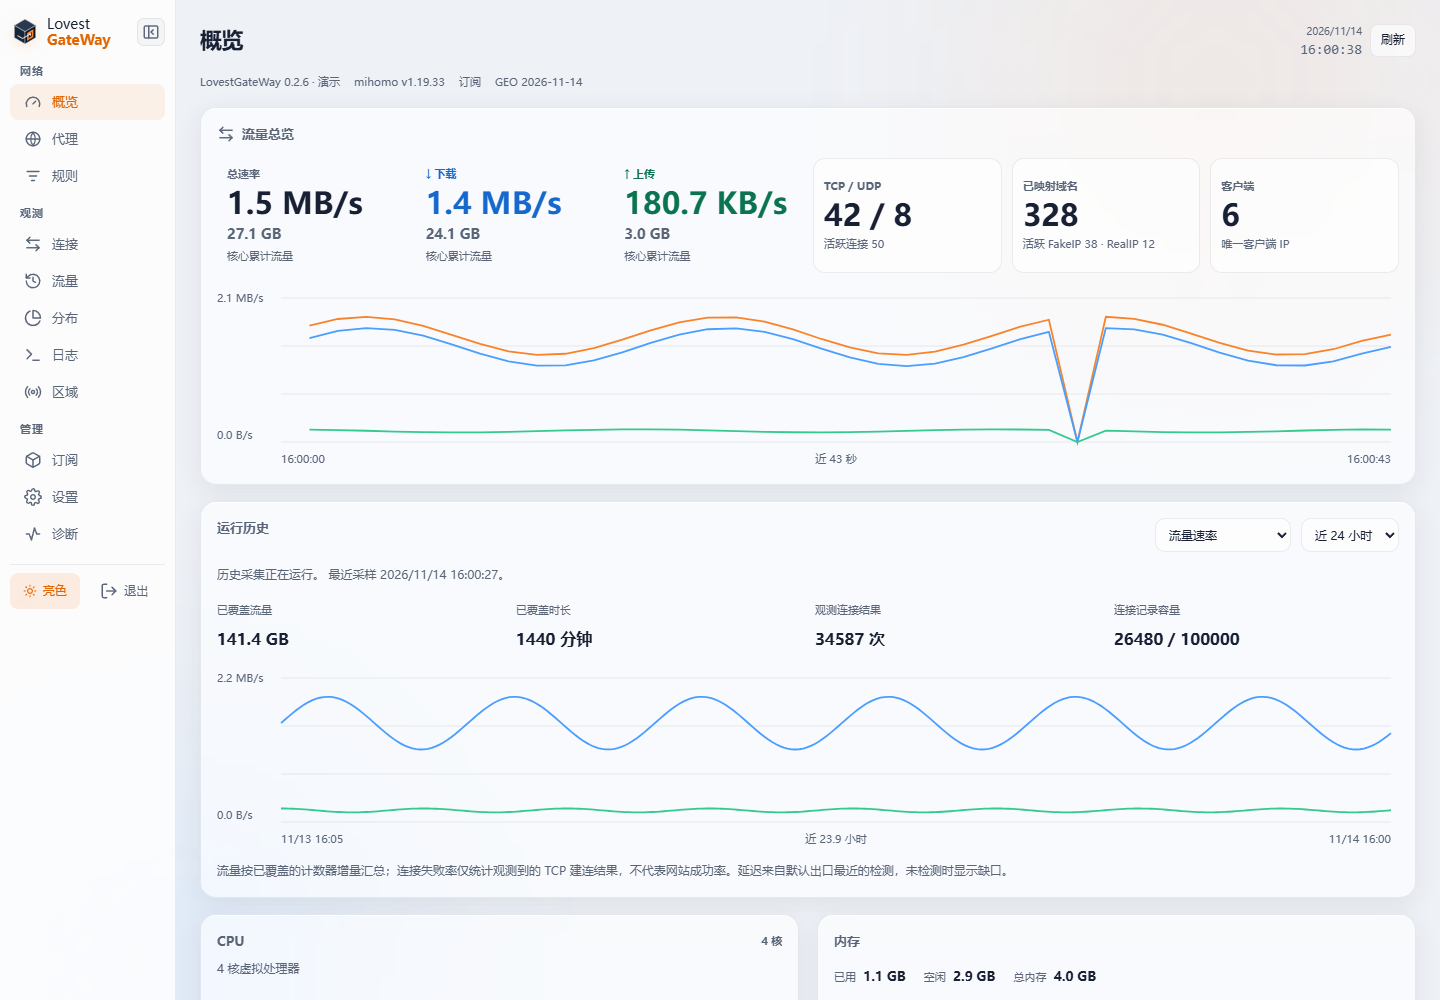
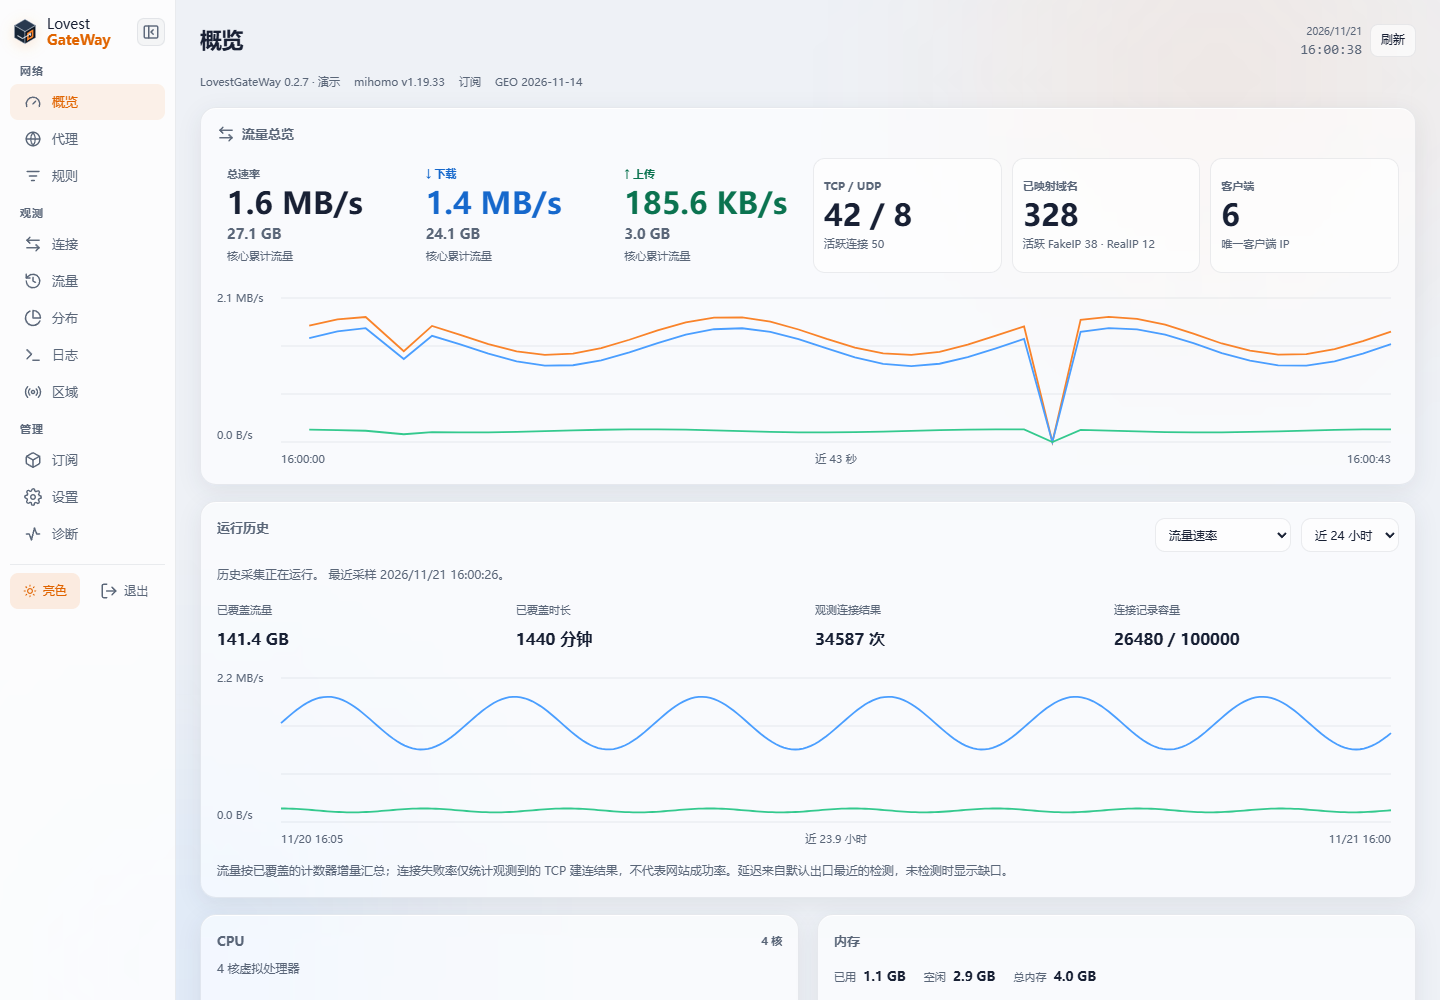
Prepare v0.2.7 and consolidate outdated project files

diff --git a/docs/optimization-roadmap.md b/docs/optimization-roadmap.md
@@ -1,6 +1,6 @@
 # 项目状态与验收边界
 
-更新于 2026-11-14，对应 v0.2.6 源码。本页描述当前主线；已公开版本及附件以 [Releases](https://github.com/Lovest20018/LovestGateWay/releases) 为准。服务部署和正式发布分别执行，发布不会自动升级服务器。
+更新于 2026-11-21，对应 v0.2.7 源码。正式安装包见 [GitHub Releases](https://github.com/Lovest20018/LovestGateWay/releases)。
 
 ## 本轮已完成
 
@@ -10,7 +10,9 @@
 | 历史采集 | 复用 SQLite 连接，合并同轮成功读取的来源事务，仅超限时扫描淘汰；保持每秒采样、保留期限和 10 万条上限 |
 | 运行历史 | 持久分页游标、独立分钟指标和 5 分钟页面汇总，展示 1 小时/24 小时流量、CPU、内存、观测建连结果和近期出口检测；计数器、身份和采样缺口保护 |
 | 局域网代理 | 独立用户名/密码输入、固定 1080 端口说明、用户名回显、保留旧密码与明确清除 |
-| 控制与订阅 | Debian 正常日志按 10 分钟汇总，故障/恢复即时记录；候选完整等价且进程未变时跳过冗余重启，组模式保留 |
+| 控制与订阅 | Debian 正常日志按 10 分钟汇总。定时和手动刷新按运行设置叠加策略和预解析 DNS，校验后比较生效配置，等价时保留进程，结果与原因写入日志 |
+| 连接统计清零 | Web 手动清零和月度清零保留活跃 TCP、UDP 连接。清零后重新聚合流量，实时图表和历史采样识别计数断点 |
+| 观测可用性 | 核心连续不可用满 20 秒时告警，恢复时记录中断时长。设置页显示 API 服务根地址与手工调用方式 |
 | 代理接口与页面 | 共享不可变 JSON、预计算 ETag、合并并发抓取、失败保留最近有效快照；页面复用节点卡片、标签和曲线，折叠组延迟处理 |
 | Mihomo 选型 | 按环境支持选择 amd64-v3/v2/v1；保守回退，允许手动选择较低等级；同版本换型与版本升级分别提示 |
 | 侧栏与内容区 | 紧凑分组、收起记忆、单按钮外观切换；11 个分栏统一标题、工具栏、反馈和表格操作，手机布局及复杂编辑回归通过 |
@@ -19,6 +21,7 @@
 
 ## 已有验证
 
+- v0.2.7 在隔离 Debian 环境验证了 `free` 和 `suburl` 的 TCP、UDP 长连接，覆盖手动清零、月度清零和清零后字节累计。浏览器回归覆盖 API 地址预览和设置回滚。正式包全量测试结果见对应的 Actions。
 - v0.2.6 发布前本地 Python 375 项、前端 36 项通过（Windows 的 4 项平台相关用例跳过），设置、历史概览与管理登录浏览器回归通过；Linux 全量 Python、Rust、浏览器和真实 PPsub CLI 合成故障切换由正式发布 CI 重新执行，实际结果以对应 Actions 为准。
 - 此前性能与兼容基线完成 Rust 1060 项通过、5 项原有用例忽略；这属于此前证据，不代替当前提交的 CI。
 - 布局交付从完整安装包运行 13 组浏览器验证，覆盖桌面、320/375px 手机、亮暗主题、两种订阅编辑模式，以及 60 组、1000 个节点候选。
@@ -38,6 +41,7 @@
 
 ## 尚待完成与独立后续
 
+- **运行告警跟进**。节点拨号拒绝、超时和整组测速失败按时段、出站、目标核对。GeoIP 下载持续失败时检查现存数据能否加载。
 - **真实客户端业务验收**：从独立客户端验证 DNS、透明 TCP/UDP、订阅更新后的业务访问与实际代理出口。缺少公网 IPv6 条件时明确保留待测；UDP/443 回显不证明 QUIC 协议通过。
 - **上游依赖评审**：台账仍暂缓上游 `Cargo.lock` 更新，需单独评估兼容和安全影响，见[上游跟进](upstream-maintenance.md)。
 - **更深层性能优化**：连接聚合锁、TCP/UDP 参数和整体转发吞吐先按真实负载剖析决定，没有依据时不改变网络参数。

diff --git a/docs/ui-optimization-plan.md b/docs/ui-optimization-plan.md
@@ -23,8 +23,26 @@
 | R1：物化配置比较 | 托管功能不变时允许静态规则热加载；动态来源、凭据、网络和不确定快照继续事务重启 |
 | R2：选择恢复窗口 | 已完成测量与处理判断；保留选择恢复和运行回读，明确提示新连接可能短暂失败，不宣称零中断 |
 
-## 布局与验证
+## 逐页布局
 
-逐页变化见[页面布局整理](ui-layout-review.md)。覆盖桌面、320/375px 手机、亮暗主题、焦点与草稿、排序筛选、导出、认证恢复、确认及未知结果核对。复杂编辑包含原生 PPsub 和完整配置两种模式、60 个节点组与 1000 个候选。
+各页统一主标题、工具栏、状态反馈和表格操作。手机端工具栏自然换行，宽表在内部滚动。保存与应用集中显示，次要操作按需展开，错误和待恢复事务保持可见。
+
+| 分栏 | 布局 |
+| --- | --- |
+| 概览 | 运行摘要单独成行，流量、CPU 与内存、网络接口分区。等待曲线时缩小空白 |
+| 代理 | 组头显示当前节点、数量和测速。组内筛选与测速设置按需展开 |
+| 规则 | 独立搜索，规则测试、GEO 与订阅数据管理可展开。列设置可隐藏统计详情并记忆选择 |
+| 连接 | 活动与已关闭分开查看。工具栏提供搜索、列设置和关闭操作，关闭全部需确认 |
+| 流量 | 累计与速率摘要统一呈现。工具栏提供视图、时间和搜索，清空操作需确认 |
+| 分布 | 节点统计和客户端、域名排行分区，支持流量、持续时间和连接数排序 |
+| 日志 | 集中显示来源与核心最低级别，各来源有独立搜索、暂停和条数设置 |
+| 区域 | 默认展开基础、AI、全球服务。筛选时展开匹配组，清除时恢复原样 |
+| 订阅 | 每类默认展开首行，新增或复制时自动展开，保存区显示修改状态 |
+| 设置 | 运行核对显示摘要，过期或失败时自动展开详情 |
+| 诊断 | 优先显示当前状态和故障，异常服务自动展开，集中展示备份、恢复预览和任务进度 |
+
+## 验证
+
+合成浏览器测试覆盖桌面、320/375px 手机、亮暗主题、焦点与草稿、排序筛选、导出、认证恢复、确认及未知结果核对。复杂编辑覆盖原生 PPsub 和完整配置两种模式、60 个节点组与 1000 个候选。
 
 认证恢复、完整设置与核心维护、网关升级及主要页面浏览器回归已接入 Debian CI，先通过浏览器作业再进入打包，验证范围见[测试说明](testing.md)。自动测试、隔离安装和真实客户端业务分别记录；真实客户端透明业务和公网 IPv6 仍按环境独立验收，整体项目状态见[项目状态](optimization-roadmap.md)。

diff --git a/README.md b/README.md
@@ -23,13 +23,13 @@
 
 桌面与手机使用同一套面板，支持侧栏收起、亮暗主题和大列表分批展示。日常使用无需开启对外观测 API。
 
-## v0.2.6
+## v0.2.7
 
-- 代理账号拆分为用户名和密码，保存后回显用户名，并显示固定端口及客户端连接说明。
-- 概览增加近 1 小时 / 24 小时运行历史；采样缺口和核心重启保留为缺口，避免产生虚假流量。
-- 减少控制循环重复日志和等价订阅引起的重启，增加真实 PPsub CLI 的合成故障切换验证。
+- 定时和手动订阅刷新按运行设置生成候选，生效配置等价时跳过重启，并记录应用决定。
+- 手动和月度流量清零保留活跃连接。聚合流量从清零后重新统计，实时图表与运行历史标出计数断点。
+- 观测采集区分短暂中断与持续故障，设置页明确显示 HNM 所需的 API 服务根地址。
 
-升级保留已有组模式，**不会自动开启故障转移或历史采集**。详细说明见 [v0.2.6 发布说明](docs/releases/0.2.6.md)。
+升级沿用已有的组模式及故障转移、历史采集开关。详细说明见 [v0.2.7 发布说明](docs/releases/0.2.7.md)。
 
 ## 界面预览
 

diff --git a/docs/releases/0.2.7.md b/docs/releases/0.2.7.md
@@ -1,0 +1,8 @@
+# LovestGateWay v0.2.7
+
+- 定时和手动订阅刷新按运行设置执行 DNS 预解析和本地策略叠加。校验后的生效配置等价时保留运行进程，并记录刷新结果与应用原因。配置确有变化时继续通过事务应用，失败时回滚。
+- Web 手动清零和月度自动清零保留活跃 TCP、UDP 连接。清零后的聚合数据只计新流量，实时图表和运行历史识别清零断点。
+- 核心连续不可用满 20 秒时，观测采集发出告警。采集恢复时记录中断时长，历史保留采样缺口。
+- 观测 API 设置显示服务根地址。HNM 填写根地址，手工查询实例时在根地址后追加 `/api/v1/instance`。
+
+通过「设置 → 维护与 API → LovestGateWay 更新」升级，或按[安装与升级指南](https://github.com/Lovest20018/LovestGateWay/blob/main/docs/debian-deployment.md)操作。升级沿用已有配置、订阅和采集设置。升级重启期间转发会短暂中断，完成后重新登录并刷新页面。

diff --git a/docs/README.md b/docs/README.md
@@ -2,7 +2,7 @@
 
 适用于 LovestGateWay Debian 正式版。首次使用从安装指南开始；日常设置通过 Web 完成。
 
-当前版本：[v0.2.6](releases/0.2.6.md) · [更新记录](../CHANGELOG.md) · [正式安装包](https://github.com/Lovest20018/LovestGateWay/releases/latest)
+版本 [v0.2.7](releases/0.2.7.md) · [更新记录](../CHANGELOG.md) · [正式安装包](https://github.com/Lovest20018/LovestGateWay/releases/latest)
 
 | 需求 | 文档 |
 | --- | --- |
@@ -27,7 +27,7 @@
 - [Debian 运行机制](reference/debian-runtime.md)
 - [Mihomo 热加载边界](mihomo-reload-assessment.md) · [新连接窗口](mihomo-selection-window.md)
 - [节点选择保留](node-selection-persistence.md) · [浏览器管理会话](browser-sessions.md)
-- [UI 优化结果](ui-optimization-plan.md) · [页面布局整理](ui-layout-review.md)
+- [UI 优化与逐页布局](ui-optimization-plan.md)
 
 <details>
 <summary>历史设计与上游资料</summary>

diff --git a/CHANGELOG.md b/CHANGELOG.md
@@ -2,6 +2,12 @@
 
 正式安装包及发布清单见 [GitHub Releases](https://github.com/Lovest20018/LovestGateWay/releases)。本页索引用户可见变化，完整发布说明保存在 `docs/releases/`。
 
+## [v0.2.7](docs/releases/0.2.7.md) · 2026-11-21
+
+- 定时和手动订阅刷新按运行设置比较候选，等价时跳过重启，并记录刷新结果与应用原因。
+- 手动和月度流量清零保留活跃 TCP、UDP 连接。运行历史和实时图表能识别清零边界。
+- 观测采集在核心持续不可用时告警，恢复时记录中断时长。设置页明确 API 服务根地址和直接调用路径。
+
 ## [v0.2.6](docs/releases/0.2.6.md) · 2026-11-14
 
 - 局域网代理独立填写用户名和密码，保存后显示用户名，补充 `1080` 端口与连接说明。

diff --git a/docs/debian-web-settings.md b/docs/debian-web-settings.md
@@ -33,7 +33,7 @@
 
 隐藏只影响节点卡片展示，不修改配置、当前选择或测速范围，节点组仍会显示。订阅节点名会变化时，可使用稳定的关键词。
 
-规则页默认保留全部列，可在“列设置”隐藏统计详情列；规则测试和数据管理按需展开。订阅编辑默认展开每类首行，新增或复制行自动展开，保存区显示当前修改状态。布局说明见[页面整理记录](ui-layout-review.md)。
+规则页默认保留全部列，可在“列设置”隐藏统计详情列；规则测试和数据管理按需展开。订阅编辑默认展开每类首行，新增或复制行自动展开，保存区显示当前修改状态。 [逐页布局](ui-optimization-plan.md#逐页布局)
 
 ## 网关设置
 

diff --git a/docs/images/README.md b/docs/images/README.md
@@ -2,7 +2,7 @@
 
 README 使用真实前端源码和完全虚构的演示数据生成截图，不连接运行中的网关。节点名称、统计值、版本显示及文档示例地址均不代表真实部署或性能结果。
 
-- `overview.png`：v0.2.6 桌面概览与近 24 小时运行历史，亮色。
+- `overview.png`：v0.2.7 桌面概览与近 24 小时运行历史，亮色。
 - `proxies.png`：桌面代理页面，亮色。
 - `mobile-dark.png`：390px 手机代理页面，暗色。
 
